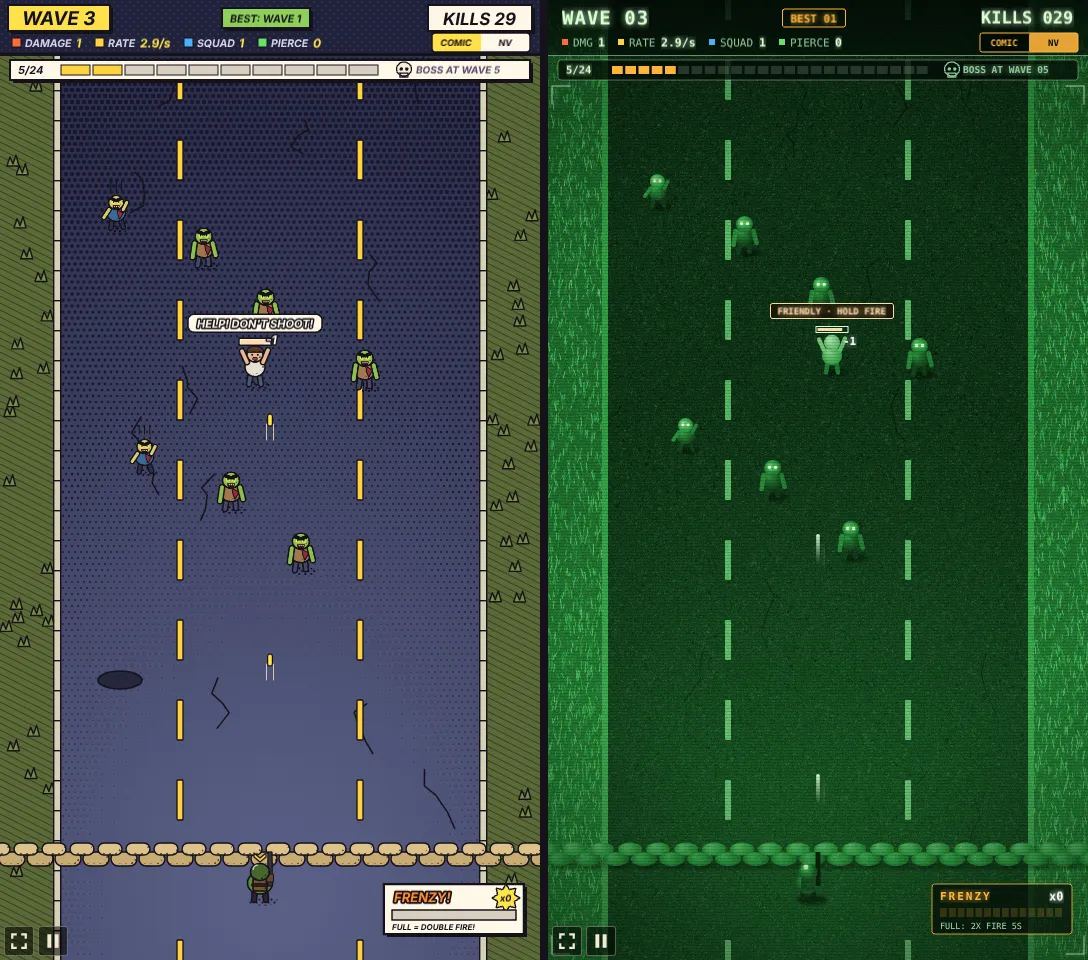
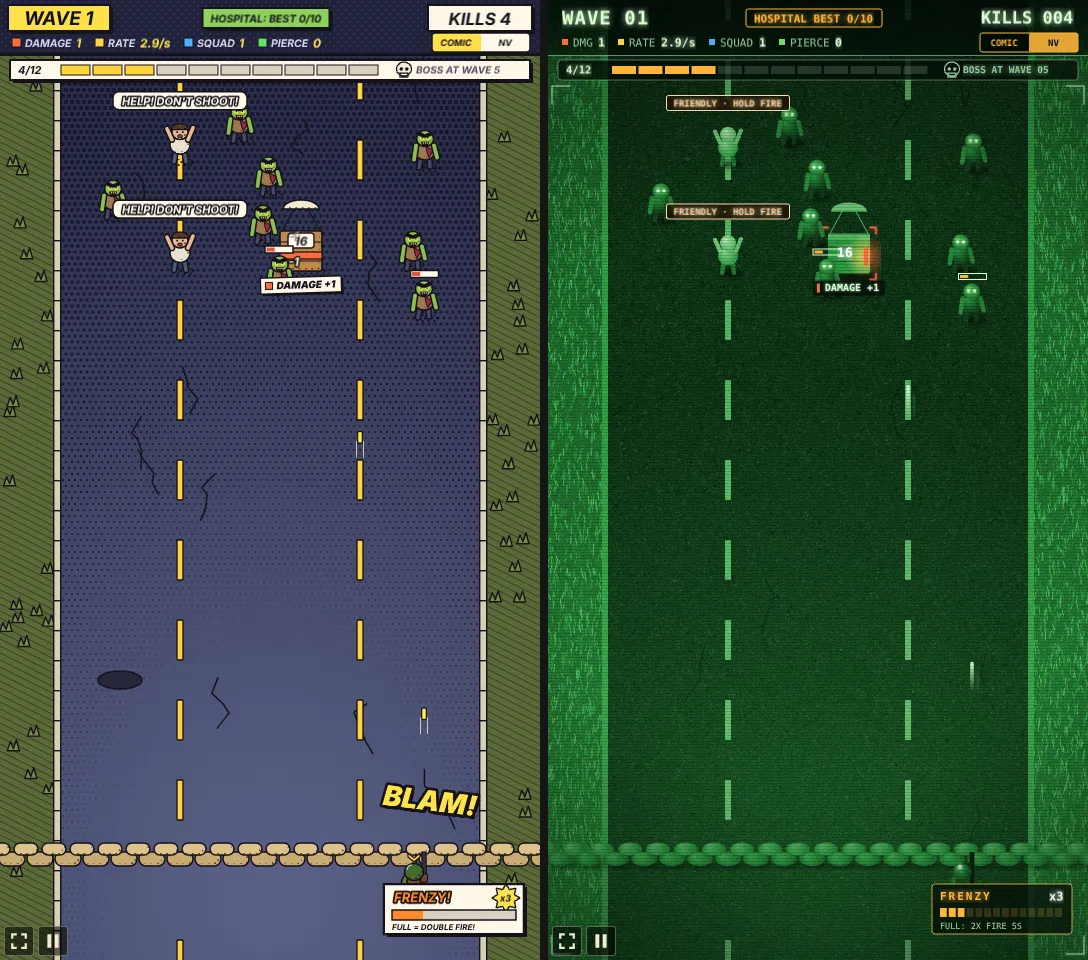
Deadline: survivor tips in every language, new survivors screenshot
Created with Opus 5.5 (high)

diff --git a/games/deadline/src/howToPlay.ts b/games/deadline/src/howToPlay.ts
@@ -24,7 +24,7 @@ const en: HowToPlay = {
     { input: 'Tap anywhere else after game over', action: 'Start again from wave 1' },
   ],
   loop: [
-    'Zombies walk down the road towards you while your squad fires straight up.',
+    'Zombies walk down their lanes to the sandbags while your squad fires straight up; move under the lane that needs you.',
     'Stand below a crate and shoot it open to collect its upgrade.',
     'Clear every zombie in the wave, and the next, bigger wave comes after a short pause.',
     'Every fifth wave ends with a boss; beat it and pick one of three supplies.',
@@ -34,7 +34,7 @@ const en: HowToPlay = {
     'Kill quickly: a streak of 12 starts a frenzy that doubles your fire rate for 5 seconds.',
     'A third crate of one kind turns into a perk: fire rounds, headshots or ricochets.',
     'Spitters lob acid; step out of the ring, since standing in acid halves your fire rate.',
-    'Your bullets hurt survivors too; let one reach the sandbags and they join your squad.',
+    'Survivors walk between the lanes and your rifles hold fire on them, but pellets, ricochets and marksman shots still hurt; let one reach the sandbags and they join your squad.',
     'Riot zombies only chip under plain bullets; use pierce, a fuel drum or a flame.',
     'A survivor who joins picks a role: Gunner, Grenadier (a grenade every fourth volley) or Marksman (a heavy shot at the toughest zombie).',
     'From wave 8 the horde answers your strongest stat: armoured brutes stop pierce, riot shields blunt fire rate, flank spitters test a wide squad.',
@@ -74,7 +74,7 @@ const de: HowToPlay = {
     { input: 'Nach dem Spielende woanders tippen', action: 'Neu ab Welle 1 beginnen' },
   ],
   loop: [
-    'Zombies laufen die Straße hinunter auf dich zu, während dein Trupp gerade nach oben feuert.',
+    'Zombies laufen ihre Spur hinunter zu den Sandsäcken, während dein Trupp gerade nach oben feuert; stell dich unter die Spur, die dich braucht.',
     'Stell dich unter eine Kiste und schieß sie auf, um ihr Upgrade zu bekommen.',
     'Erledige jeden Zombie der Welle, und nach einer kurzen Pause kommt die nächste, größere Welle.',
     'Jede fünfte Welle endet mit einem Boss; besiege ihn und wähle einen von drei Nachschüben.',
@@ -84,7 +84,7 @@ const de: HowToPlay = {
     'Töte schnell: eine Serie von 12 startet einen Rausch, der deine Feuerrate 5 Sekunden lang verdoppelt.',
     'Die dritte Kiste einer Sorte wird zum Vorteil: Brandmunition, Kopfschüsse oder Querschläger.',
     'Spucker werfen Säure; geh aus dem Ring, denn in der Säure halbiert sich deine Feuerrate.',
-    'Deine Kugeln treffen auch Überlebende; lass einen die Sandsäcke erreichen, dann verstärkt er deinen Trupp.',
+    'Überlebende laufen zwischen den Spuren, und deine Gewehre halten das Feuer auf sie zurück, doch Schrot, Querschläger und Scharfschüsse treffen sie trotzdem; lass einen die Sandsäcke erreichen, dann verstärkt er deinen Trupp.',
     'Krawallzombies nehmen von normalen Kugeln kaum Schaden; nimm Durchschlag, ein Treibstofffass oder Feuer.',
     'Ein neuer Überlebender wählt eine Rolle: Schütze, Grenadier (jede vierte Salve eine Granate) oder Scharfschütze (ein schwerer Schuss auf den zähesten Zombie).',
     'Ab Welle 8 antwortet die Horde auf deinen stärksten Wert: gepanzerte Brecher stoppen Durchschlag, Krawallschilde bremsen die Feuerrate, Flankenspucker prüfen einen breiten Trupp.',

diff --git a/games/deadline/AGENTS.md b/games/deadline/AGENTS.md
@@ -24,7 +24,8 @@ upgrades. A run is the endless Open Road or a 10-wave operation, picked on the g
   placed in a lane, scrap banked from kills and spent on the game over screen on starting crates for
   the next run, four crate upgrades (fire rate, damage, companion, pierce) and the perks their third
   crate evolves into (fire rounds, headshots, ricochets), survivors walking among the zombies from
-  wave 3 (shots hurt them; one who reaches the sandbags joins the squad or gives scrap), wave
+  wave 3 (walking the seams between lanes; rifles hold fire on them, but pellets, marksman rounds and
+  ricochets hurt them; one who reaches the sandbags joins the squad or gives scrap), wave
   conditions from wave 6 (blackout, blood moon, ammo shortage), the horde adapting from wave 8
   (every fourth grunt becomes armoured brutes, riot zombies or flank spitters, answering the
   squad's strongest stat), squad roles (a joining survivor picks Gunner, Grenadier or Marksman),
@@ -58,8 +59,8 @@ upgrades. A run is the endless Open Road or a 10-wave operation, picked on the g
   - No audio, no camera shake.
   - Each boss's moves cycle in a fixed order (each boss wave starts one further along).
   - A spitter stands still at its range until shot, so a wave can't end while one stands; it is
-    an easy target once the soldier walks under it. Zombies steer to the hero's x plus their own
-    offset, clamped to `HERO.minX..HERO.maxX`, so none stops out of every rifle's reach.
+    an easy target once the soldier walks under it. Zombies steer to their lane's middle, inside
+    `HERO.minX..HERO.maxX`, so none stops out of every rifle's reach.
   - Supply drop picks, kit panel items, squad roles and the operation are not shown in the
     wide-screen backdrop.
   - Night-vision textures are baked the first time that style is shown, a hitch of about 0.4s
@@ -222,7 +223,8 @@ upgrades. A run is the endless Open Road or a 10-wave operation, picked on the g
   `addCompanions`) or `SURVIVOR.scrap` once the squad is full; `state.survivorsSaved` counts them.
   In `fire` a rifle's straight shot is held while `survivorAhead(x, y)` (a survivor up its column);
   shotgun pellets, a marksman's aimed round and ricochets are not held. `hitTargets` sweeps
-  survivors along with the enemies, so the nearest thing in a bullet's path is hit first; `hurtSurvivor` takes the damage and at 0 the survivor is lost (`state.survivorsLost`).
+  survivors along with the enemies, so the nearest thing in a bullet's path is hit first;
+  `hurtSurvivor` takes the damage and at 0 the survivor is lost (`state.survivorsLost`).
   They don't count towards `waveTotal` or block a wave clear, and keep walking in the break.
 - **Conditions:** `state.condition` is read where it applies: `fire` multiplies the interval by
   `CONDITION.shortageFire` in a shortage (and `planWave` got `CONDITION.shortageDrums` more drums

diff --git a/games/deadline/README.md b/games/deadline/README.md
@@ -99,7 +99,7 @@ and the fuel drum's blast doesn't swell.
   reaches the sandbags joins the squad as a companion, or hands over 15 scrap once the squad is
   full.
 
-  ![A survivor among the horde in both styles](docs/screenshots/survivors.webp)
+  ![Survivors walking the seam between two lanes while the horde keeps to its lanes, in both styles](docs/screenshots/survivors.webp)
 - **Squad roles**: a survivor who joins the squad stops the game to pick a role. A **Gunner**
   fires every volley like everyone else. A **Grenadier** throws a grenade every fourth volley,
   which bursts on the first zombie it hits and hurts everything round it, past riot shields. A
